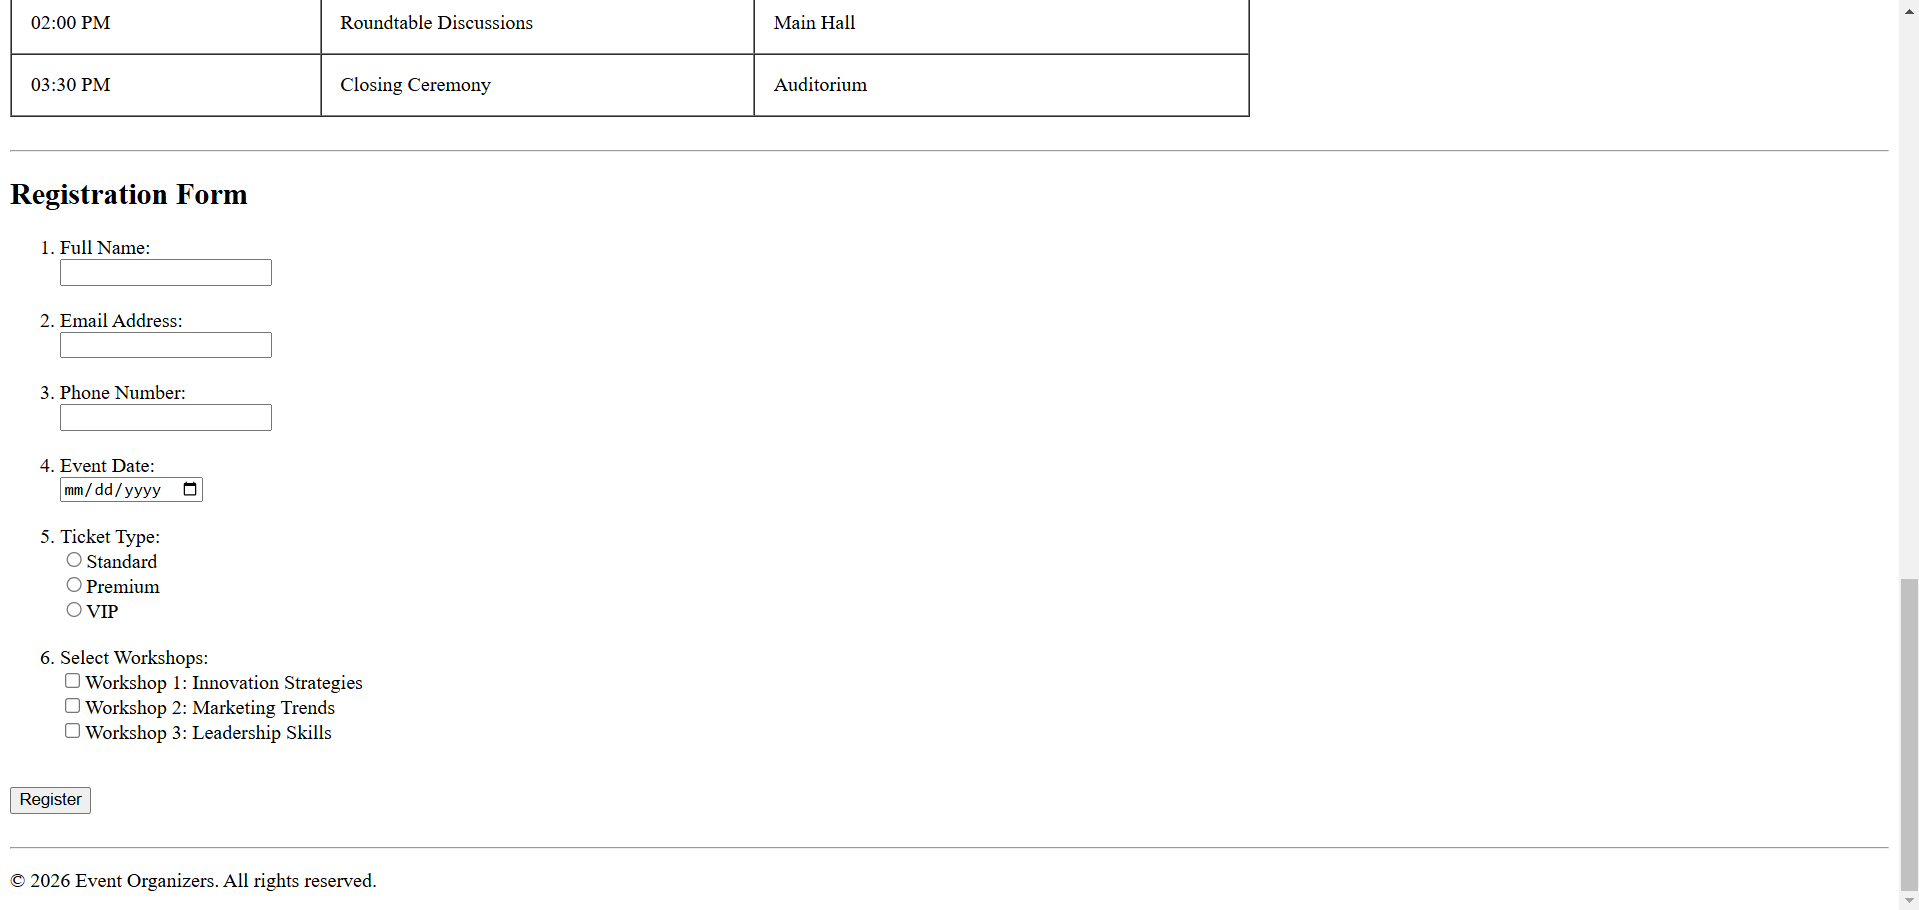
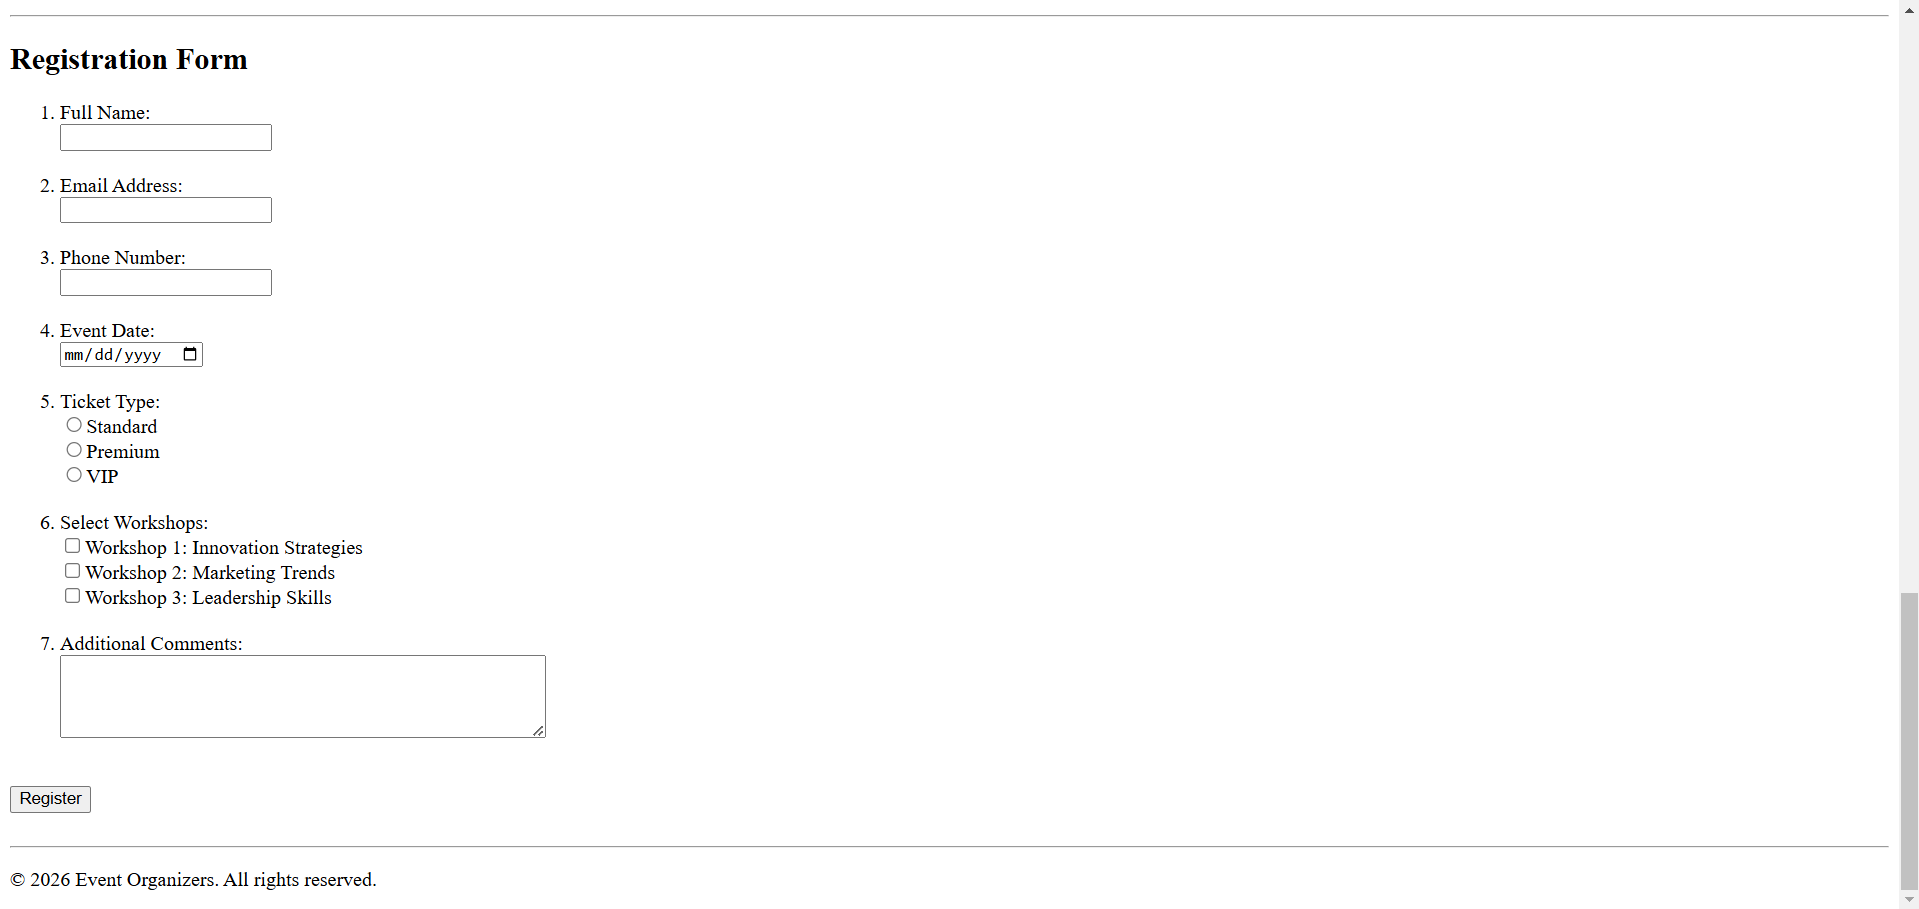
changes

diff --git a/DAY 2/event.html b/DAY 2/event.html
@@ -150,6 +150,9 @@
                     <input type="checkbox" id="workshop1" name="workshops" value="workshop1"><label for="workshop1">Workshop 1: Innovation Strategies</label><br>
                     <input type="checkbox" id="workshop2" name="workshops" value="workshop2"><label for="workshop2">Workshop 2: Marketing Trends</label><br>
                     <input type="checkbox" id="workshop3" name="workshops" value="workshop3"><label for="workshop3">Workshop 3: Leadership Skills</label><br><br>
+
+                    <li><label for="comments">Additional Comments:</label><br></li>
+                    <textarea id="comments" name="comments" rows="4" cols="50"></textarea><br><br>
                 </ol>
                 <input type="submit" value="Register">
             </form>
